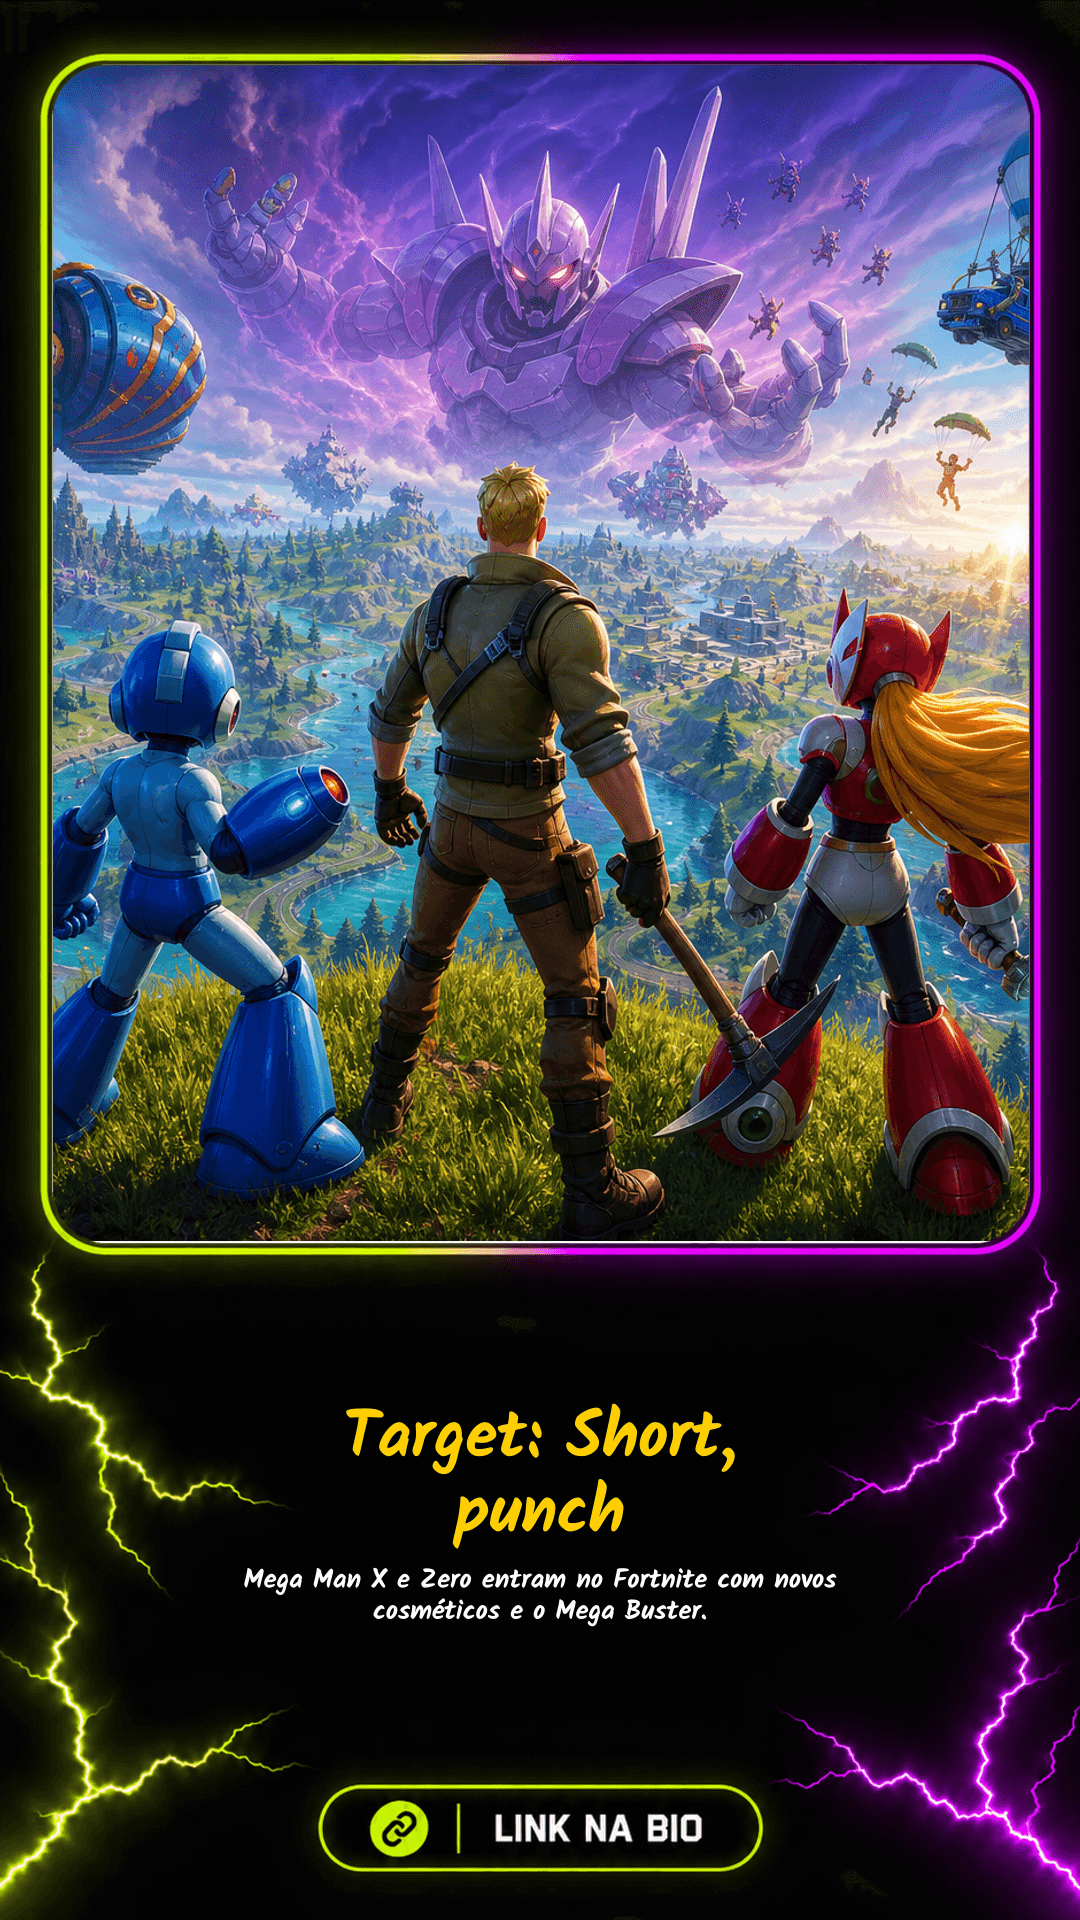
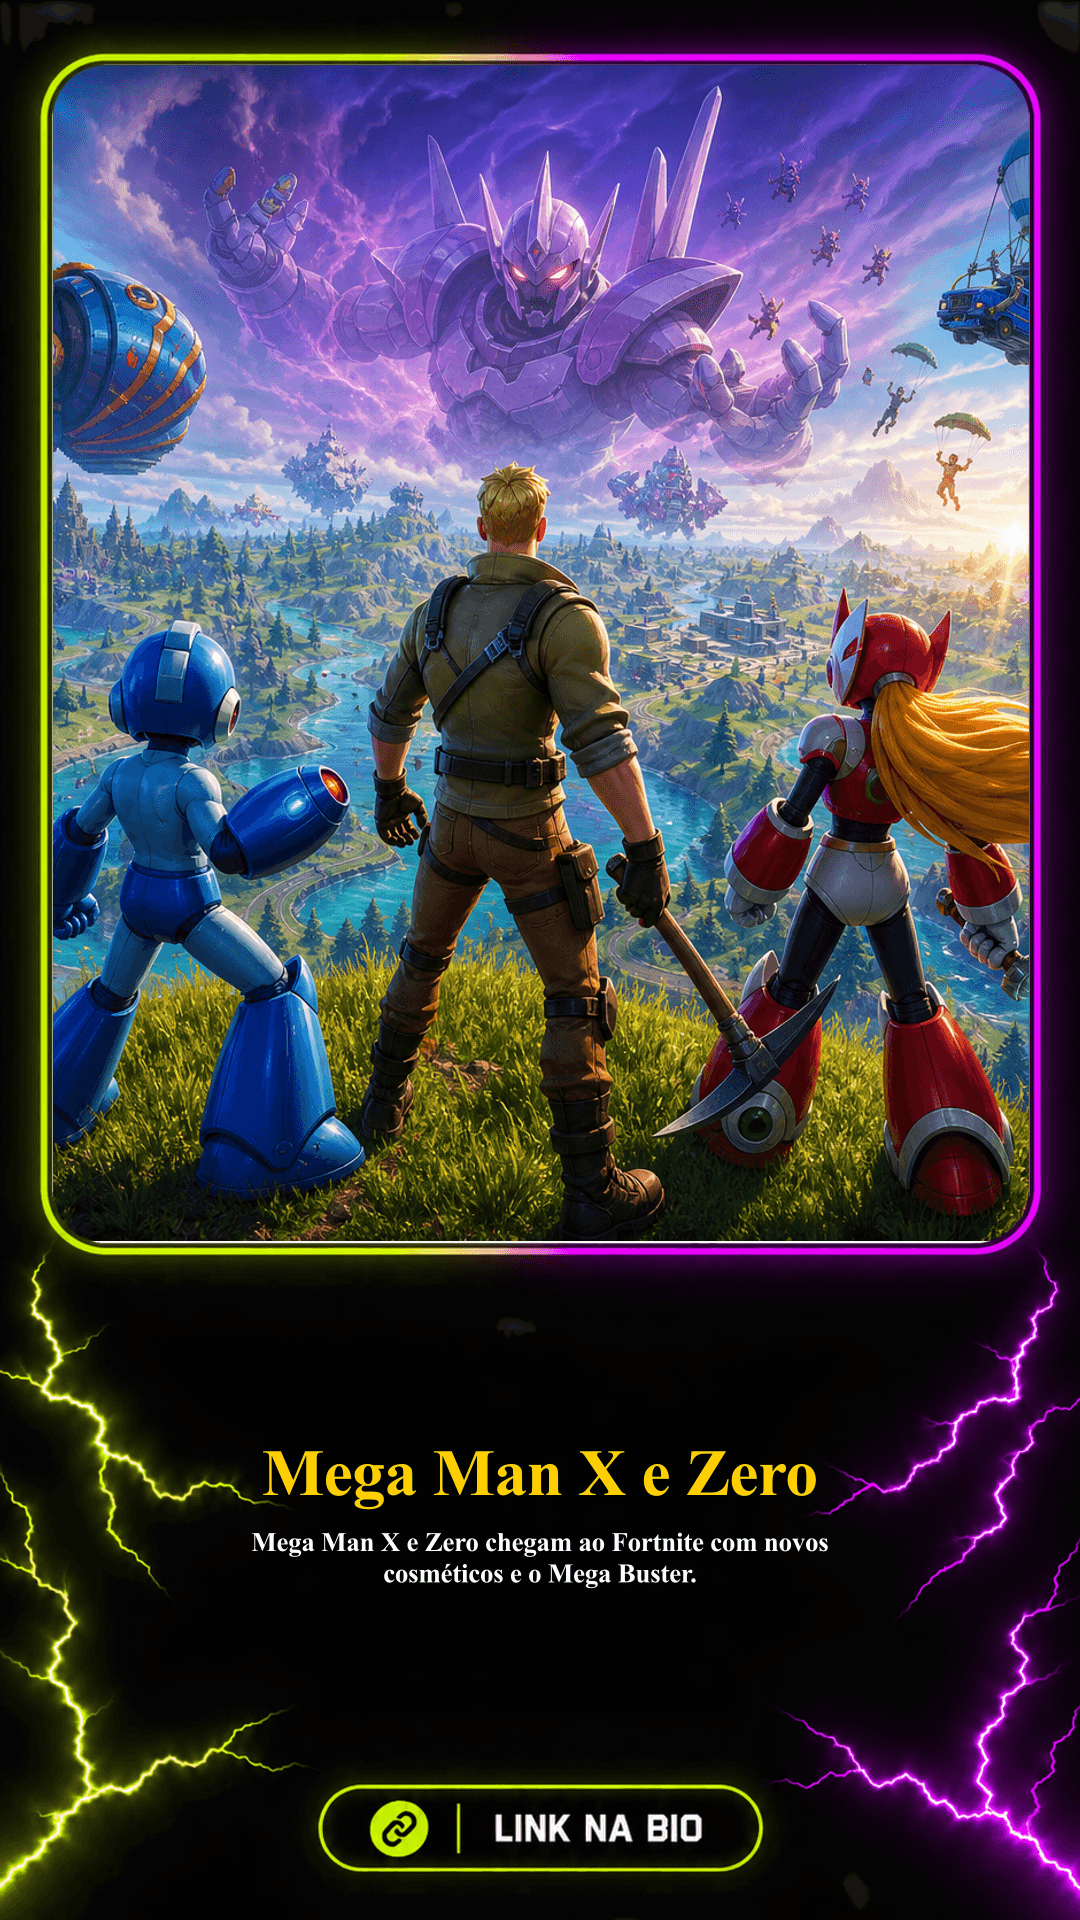
fix: titulo e imagens do artigo do crossover Fortnite x Mega Man
- Titulo: 'Mega Man Fortnite skins trazem X e Zero...' -> 'Fortnite:
  Epic Games traz skins do Mega Man X e Zero para o jogo em 2026'
  (slug preservado — a URL nao quebra)
- Imagens do corpo: as 3 primeiras eram das LOJAS (artes dos jogos Mega
  Man na Nintendo e um brinquedo no Walmart), nada a ver com as skins.
  Trocadas pela arte oficial da temporada Fortnite OVERRIDE (Epic, via
  Estadao) e pela arte oficial de Mega Man X e Zero (Capcom, via
  Omelete), ambas baixadas localmente. Credito de imagem atualizado.
- Arte do Instagram regenerada com o titulo correto.

diff --git a/src/content/artigos/mega-man-fortnite-skins-trazem-x-e-zero-para-o-jogo-em-2026.md b/src/content/artigos/mega-man-fortnite-skins-trazem-x-e-zero-para-o-jogo-em-2026.md
@@ -1,5 +1,5 @@
 ---
-title: "Mega Man Fortnite skins trazem X e Zero para o jogo em 2026"
+title: "Fortnite: Epic Games traz skins do Mega Man X e Zero para o jogo em 2026"
 description: "Mega Man X e Zero chegam ao battle royale da Epic Games. Confira os cosméticos confirmados, a chegada do Mega Buster e os detalhes do crossover no Fortnite."
 pubDate: 2026-09-12
 tags: ["Fortnite", "Mega Man", "Capcom", "Epic Games", "Skins Fortnite"]
@@ -13,7 +13,7 @@ Fala, gamer! Se você passou madrugadas na infância decorando o padrão de ataq
 A novidade não ficou presa a boatos de fórum ou artes conceituais sem fundamento. Logo após colocar a clássica arma Mega Buster para cantar dentro da jogabilidade do battle royale, a desenvolvedora bateu o martelo e oficializou a presença de trajes icônicos inspirados em **Mega Man X** e no espadachim **Zero**. Se você já estava limpando o lobby usando disparos carregados de plasma, agora vai poder fazer isso com a armadura completa dos lendários Maverick Hunters.
 
 ## <a id="a-id-anuncio-oficial-das-skins-de-mega-man-x-e-zero-a-anunci"></a><a id="anuncio-oficial-das-skins-de-mega-man-x-e-zero"></a>Anúncio oficial das skins de Mega Man X e Zero
-<img src="https://assets.nintendo.com/image/upload/ar_16:9,b_auto:border,c_lpad/b_white/f_auto/q_auto/dpr_1.5/c_scale,w_500/store/software/switch/70010000003967/02ce81081e7d6672ed836ec39bc2b7d18586ca08d77f4a02c1d0e6b54af740f3" alt="Mega Man X" class="article-game-img" loading="lazy" decoding="async">
+<img src="/images/artigos/fortnite-override-mega-man.jpg" alt="Arte oficial da temporada Fortnite OVERRIDE com Mega Man, Mega Man X, Rush, Sonic e outros icones" class="article-game-img" loading="lazy" decoding="async">
 
 A confirmação caiu como uma bomba na comunidade de jogadores. De acordo com informações apuradas pelo portal Omelete, a Epic Games bateu o martelo sobre a inclusão de Mega Man X e Zero no catálogo de trajes do game. O anúncio oficial aconteceu logo na sequência da estreia do clássico Mega Buster como item utilizável no mapa, elemento que já tinha deixado a base de fãs em alerta máximo para o crossover iminente.
 
@@ -22,7 +22,7 @@ O traje clássico do herói azul já havia sido antecipado nos bastidores, mas a
 Para completar o pacote de tributos à obra da Capcom, o fiel cão-robô Rush também foi confirmado na colaboração, aparecendo no formato de mascote e acompanhado por um emote dedicado à prancha voadora Rush Jet.
 
 ## <a id="a-id-conteudo-cosmetico-incluido-no-crossover-a-conteudo-cos"></a><a id="conteudo-cosmetico-incluido-no-crossover"></a>Conteúdo cosmético incluído no crossover
-<img src="https://assets.nintendo.com/image/upload/ar_16:9,b_auto:border,c_lpad/b_white/f_auto/q_auto/dpr_1.5/c_scale,w_500/store/software/switch/70010000016862/d9e87681fb4046af84530ee56b8718a59bec454a3a82e64a126ebb192fdce463" alt="Mega Man Zero" class="article-game-img" loading="lazy" decoding="async">
+<img src="/images/artigos/mega-man-x-e-zero.jpg" alt="Mega Man X e Zero, personagens que ganham skins e itens cosmeticos no Fortnite" class="article-game-img" loading="lazy" decoding="async">
 
 Quem pensa que essa parceria se resume a um par de roupinhas básicas se enganou feio. A investida da desenvolvedora envolve um conjunto parrudo de itens visuais projetados para personalizar o perfil dos jogadores da cabeça aos pés. Conforme o material divulgado nas redes sociais, segundo https://www.instagram.com/reel/DdEUvF9KYis/, a colaboração lista um pacote com 3 skins, 2 acessórios para as costas (backblings), 3 picaretas, além de emote e spray temáticos.
 
@@ -31,7 +31,6 @@ Essa distribuição de equipamentos cosméticos garante que o jogador monte um c
 Os acessórios para as costas devem explorar elementos consagrados da lore da franquia, funcionando tanto nos confrontos intensos da tempestade quanto nos modos casuais de construção. O emote temático focado na locomoção com o Rush fecha o pacote com uma homenagem direta às transições clássicas de fases das eras 8-bits e 16-bits.
 
 ## <a id="a-id-como-adquirir-as-skins-no-fortnite-a-como-adquirir-as-s"></a><a id="como-adquirir-as-skins-no-fortnite"></a>Como adquirir as skins no Fortnite
-<img src="https://i5.walmartimages.com/seo/My-Arcade-Pocket-Player-Pro-Mega-Man-DGUNL-4191_f708511d-68b1-48df-a092-2b689875480c.79b44a97a3fd9b1ab2d6de1a72ada99c.jpeg?odnHeight=768&odnWidth=768&odnBg=FFFFFF" alt="Mega Man Loja de Itens" class="article-game-img" loading="lazy" decoding="async">
 
 Para colocar as mãos nesses trajes cibernéticos, o caminho dos jogadores será o mesmo de outras grandes parcerias da indústria: a tradicional Loja de Itens virtual do battle royale. Todo o conteúdo foi desenvolvido estritamente como itens cosméticos, o que significa que o uso das armaduras não concede nenhuma vantagem competitiva de vida, velocidade ou dano contra os adversários durante o tiroteio.
 
